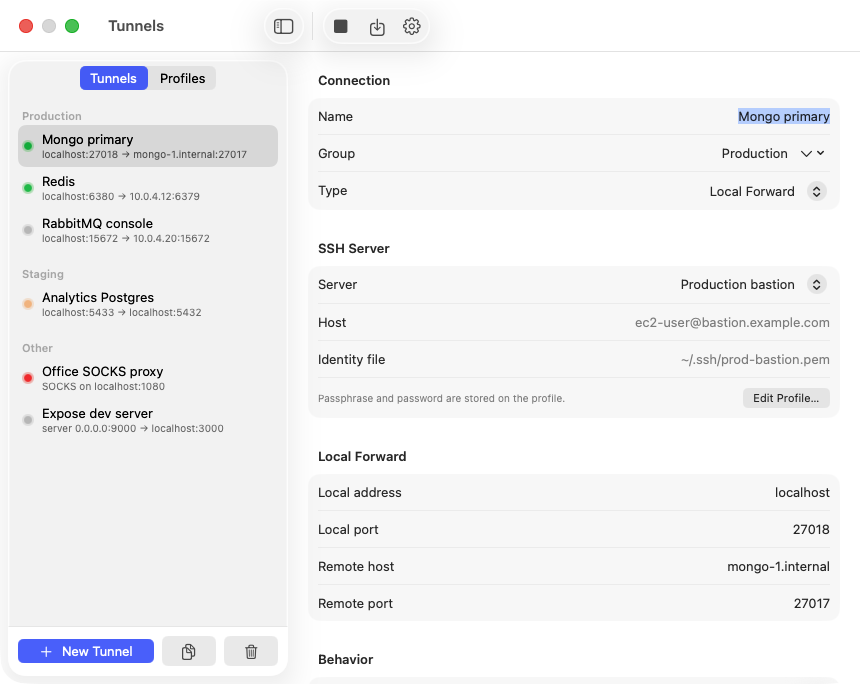
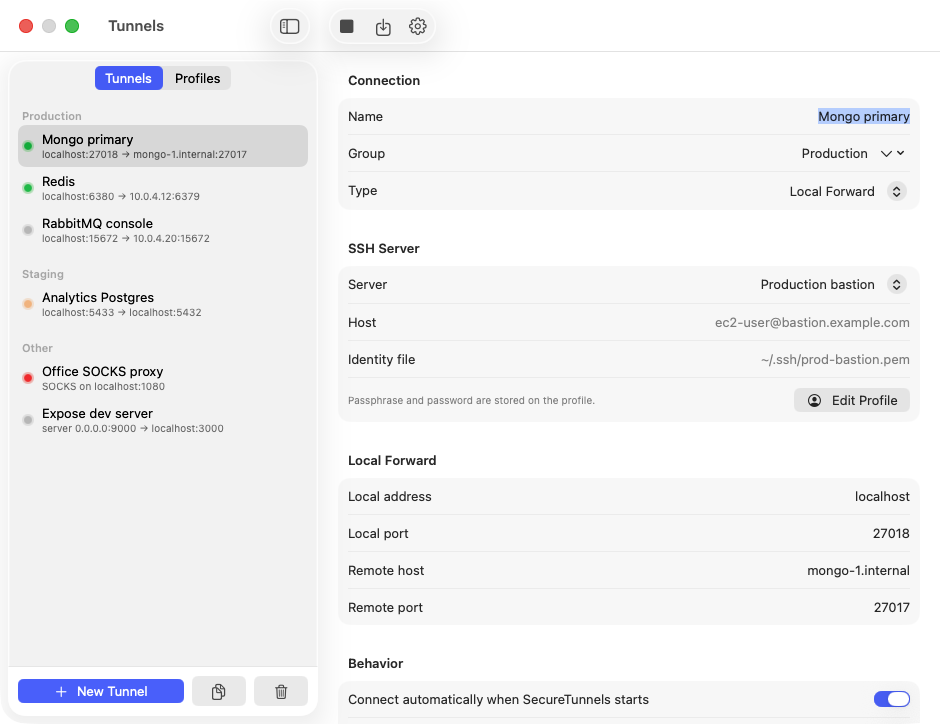
Modern buttons, wider default sidebar, and pre-flight checks for instant disconnects
Every action is a bordered or prominent button with an icon and tooltip. The sidebar opens by default
at a width that fits its action bar. Before ssh starts the manager checks the identity file exists, is
readable (which triggers the macOS folder-access prompt) and has 0600-style permissions, and clears a
quarantine flag left on the askpass helper. ssh_askpass and key permission errors map to plain advice.

diff --git a/Sources/SecureTunnels/App/TunnelManager.swift b/Sources/SecureTunnels/App/TunnelManager.swift
@@ -61,6 +61,7 @@ final class TunnelManager {
   @ObservationIgnored private var processes: [UUID: Process] = [:]
   @ObservationIgnored private var launching: Set<UUID> = []
   @ObservationIgnored private var stderrBuffers: [UUID: String] = [:]
+  @ObservationIgnored private var stdoutBuffers: [UUID: String] = [:]
   @ObservationIgnored private var wantsRunning: Set<UUID> = []
   @ObservationIgnored private var attempts: [UUID: Int] = [:]
   @ObservationIgnored private var reconnectTasks: [UUID: Task<Void, Never>] = [:]
@@ -144,7 +145,9 @@ final class TunnelManager {
   private func observeNetwork() {
     let monitor = NWPathMonitor()
     monitor.pathUpdateHandler = { path in
-      let satisfied = path.status == .satisfied
+      // requiresConnection (on-demand VPN, dial-up style links) still allows connecting, so only a hard
+      // "unsatisfied" counts as offline.
+      let satisfied = path.status != .unsatisfied
       Task { @MainActor in self.handleNetworkChange(satisfied: satisfied) }
     }
     monitor.start(queue: DispatchQueue(label: "SecureTunnels.network"))
@@ -481,6 +484,7 @@ final class TunnelManager {
 
     let listensLocally = tunnel.listensLocally
     let port = tunnel.bindPort
+    let identity = resolved(tunnel).expandedIdentityFile
     Task { @MainActor in
       let usage = listensLocally ? await Task.detached { PortProbe.listener(on: port) }.value : nil
       launching.remove(id)
@@ -491,8 +495,44 @@ final class TunnelManager {
         scheduleRetryOrFail(id, message: message)
         return
       }
+      if let problem = Self.identityProblem(path: identity) ?? Self.helperProblem() {
+        lastOutput[id] = problem + "\n"
+        scheduleRetryOrFail(id, message: problem)
+        return
+      }
       startProcess(for: id)
     }
+  }
+
+  /// Checks the key file the way ssh will: it must exist, be readable by this app (which also triggers the
+  /// macOS folder-access prompt for Desktop, Documents, Downloads and cloud drives) and not be world readable.
+  static func identityProblem(path: String) -> String? {
+    guard !path.trimmingCharacters(in: .whitespaces).isEmpty else { return nil }
+    guard FileManager.default.fileExists(atPath: path) else {
+      return "The identity file does not exist: \(path)"
+    }
+    guard let handle = FileHandle(forReadingAtPath: path) else {
+      return "The identity file could not be read. Allow SecureTunnels to access its folder in System Settings > Privacy & Security > Files and Folders, or move the key to ~/.ssh."
+    }
+    try? handle.close()
+    if let attributes = try? FileManager.default.attributesOfItem(atPath: path),
+      let permissions = attributes[.posixPermissions] as? Int, permissions & 0o077 != 0 {
+      return "ssh refuses the identity file because its permissions are too open. Run: chmod 600 \"\(path)\""
+    }
+    return nil
+  }
+
+  /// ssh runs the askpass helper directly, so a quarantine flag left on it (zip download opened with right-click
+  /// instead of xattr) makes Gatekeeper kill it. Clear the flag on our own helper when possible.
+  static func helperProblem() -> String? {
+    let path = askPassURL.path
+    guard FileManager.default.isExecutableFile(atPath: path) else {
+      return "The passphrase helper is missing from the app bundle: \(path)"
+    }
+    let attribute = "com.apple.quarantine"
+    guard getxattr(path, attribute, nil, 0, 0, 0) >= 0 else { return nil }
+    if removexattr(path, attribute, 0) == 0 { return nil }
+    return "The passphrase helper is quarantined. Run: xattr -dr com.apple.quarantine \"\(Bundle.main.bundlePath)\""
   }
 
   private func startProcess(for id: UUID) {
@@ -500,6 +540,7 @@ final class TunnelManager {
     let tunnel = resolved(stored)
     let owner = secretOwner(for: stored)
     stderrBuffers[id] = ""
+    stdoutBuffers[id] = ""
 
     let payload = AskPassPayload(
       passphrase: Keychain.read(.passphrase, ownerID: owner),
@@ -572,7 +613,11 @@ final class TunnelManager {
     log?.write(Data(text.utf8))
     if isError {
       stderrBuffers[id, default: ""] += text
-    } else if text.contains(SSHCommand.connectedMarker), status[id] == .connecting {
+      return
+    }
+    // The marker can arrive split across reads, so match on the accumulated text.
+    stdoutBuffers[id] = String((stdoutBuffers[id, default: ""] + text).suffix(512))
+    if stdoutBuffers[id, default: ""].contains(SSHCommand.connectedMarker), status[id] == .connecting {
       status[id] = .connected
       attempts[id] = 0
     }

diff --git a/Sources/SecureTunnels/Views/TunnelEditorView.swift b/Sources/SecureTunnels/Views/TunnelEditorView.swift
@@ -60,8 +60,10 @@ struct TunnelEditorView: View {
               .font(.caption)
               .foregroundStyle(.secondary)
             Spacer()
-            Button("Edit Profile…") { manager.pendingProfileSelection = profile.id }
-              .controlSize(.small)
+            Button { manager.pendingProfileSelection = profile.id } label: {
+              Label("Edit Profile", systemImage: "person.crop.circle")
+            }
+            .buttonStyle(.bordered)
               .help("Open this profile to change its server settings and secrets")
           }
         } else {
@@ -70,7 +72,8 @@ struct TunnelEditorView: View {
           TextField("Username", text: $tunnel.username, prompt: Text("ec2-user"))
           HStack {
             TextField("Identity file", text: $tunnel.identityFile, prompt: Text("Leave empty to use ~/.ssh keys or the agent"))
-            Button("Choose…") { chooseIdentityFile() }
+            Button { chooseIdentityFile() } label: { Label("Choose", systemImage: "folder") }
+              .buttonStyle(.bordered)
               .help("Pick the private key file for this tunnel")
           }
           SecureField("Key passphrase", text: $passphrase, prompt: Text("Only if the key is encrypted"))
@@ -85,12 +88,14 @@ struct TunnelEditorView: View {
               .font(.caption)
               .foregroundStyle(.secondary)
             Spacer()
-            Button("Save as Profile…") {
+            Button {
               if let created = manager.createProfile(fromTunnel: tunnel.id) {
                 manager.pendingProfileSelection = created.id
               }
+            } label: {
+              Label("Save as Profile", systemImage: "person.badge.plus")
             }
-            .controlSize(.small)
+            .buttonStyle(.bordered)
             .disabled(tunnel.host.isEmpty)
             .help("Move these server settings and secrets into a reusable profile")
           }
@@ -162,10 +167,13 @@ struct TunnelEditorView: View {
                 .font(.caption)
                 .foregroundStyle(.secondary)
               Spacer()
-              Button("Copy") {
+              Button {
                 NSPasteboard.general.clearContents()
                 NSPasteboard.general.setString(output, forType: .string)
+              } label: {
+                Label("Copy", systemImage: "doc.on.doc")
               }
+              .buttonStyle(.bordered)
               .controlSize(.small)
               .help("Copy the ssh output to the clipboard")
             }
@@ -187,13 +195,21 @@ struct TunnelEditorView: View {
             .multilineTextAlignment(.trailing)
             .foregroundStyle(.secondary)
         }
-        HStack {
-          Button(status.isActive ? "Disconnect" : "Connect") { manager.toggle(tunnel.id) }
-            .help(status.isActive ? "Close this tunnel" : "Open this tunnel")
-          Button("Show Log") { showLog() }
+        HStack(spacing: 10) {
+          Button { manager.toggle(tunnel.id) } label: {
+            Label(status.isActive ? "Disconnect" : "Connect", systemImage: status.isActive ? "stop.fill" : "play.fill")
+              .frame(minWidth: 96)
+          }
+          .buttonStyle(.borderedProminent)
+          .tint(status.isActive ? .red : .accentColor)
+          .help(status.isActive ? "Close this tunnel" : "Open this tunnel")
+          Button { showLog() } label: { Label("Show Log", systemImage: "doc.text.magnifyingglass") }
+            .buttonStyle(.bordered)
             .disabled(!FileManager.default.fileExists(atPath: AppPaths.logFile(for: tunnel.id).path))
             .help("Open the full ssh log for this tunnel")
+          Spacer()
         }
+        .padding(.vertical, 2)
       }
     }
     .formStyle(.grouped)

diff --git a/Sources/SecureTunnels/Views/TunnelsWindow.swift b/Sources/SecureTunnels/Views/TunnelsWindow.swift
@@ -10,6 +10,7 @@ enum SidebarMode: String, CaseIterable, Identifiable {
 struct TunnelsWindow: View {
   @Environment(TunnelManager.self) private var manager
   @Environment(\.openWindow) private var openWindow
+  @State private var columnVisibility: NavigationSplitViewVisibility = .all
   @State private var mode: SidebarMode = .tunnels
   @State private var selection: UUID?
   @State private var profileSelection: UUID?
@@ -21,7 +22,7 @@ struct TunnelsWindow: View {
   }
 
   var body: some View {
-    NavigationSplitView {
+    NavigationSplitView(columnVisibility: $columnVisibility) {
       sidebar
     } detail: {
       detail
@@ -63,7 +64,7 @@ struct TunnelsWindow: View {
     .onAppear(perform: consumePendingSelection)
     .onChange(of: manager.pendingSelection) { consumePendingSelection() }
     .onChange(of: manager.pendingProfileSelection) { consumePendingSelection() }
-    .frame(minWidth: 800, minHeight: 560)
+    .frame(minWidth: 880, minHeight: 600)
   }
 
   /// The popover and the editor ask for a specific tunnel or profile through the manager.
@@ -94,7 +95,7 @@ struct TunnelsWindow: View {
       case .profiles: profileList
       }
     }
-    .navigationSplitViewColumnWidth(min: 240, ideal: 280, max: 380)
+    .navigationSplitViewColumnWidth(min: 290, ideal: 310, max: 420)
     .safeAreaInset(edge: .bottom, spacing: 0) { bottomBar }
     .confirmationDialog(deleteTitle, isPresented: $confirmDelete, titleVisibility: .visible) {
       Button("Remove", role: .destructive, action: deleteSelected)
@@ -256,7 +257,10 @@ struct TunnelsWindow: View {
             : "Select a tunnel to edit it.")
         } actions: {
           if manager.tunnels.isEmpty && SecurePipesImporter.isAvailable() {
-            Button("Import from Secure Pipes") { importFromSecurePipes() }
+            Button { importFromSecurePipes() } label: {
+              Label("Import from Secure Pipes", systemImage: "square.and.arrow.down")
+            }
+            .buttonStyle(.borderedProminent)
           }
         }
       }

diff --git a/Sources/SecureTunnels/Views/MenuBarView.swift b/Sources/SecureTunnels/Views/MenuBarView.swift
@@ -62,8 +62,10 @@ struct MenuBarView: View {
         .font(.caption)
         .foregroundStyle(.secondary)
         .multilineTextAlignment(.center)
-      Button("Manage Tunnels…") { open(WindowID.tunnels) }
+      Button { open(WindowID.tunnels) } label: { Label("Manage Tunnels", systemImage: "slider.horizontal.3") }
+        .buttonStyle(.borderedProminent)
         .controlSize(.small)
+        .help("Add your first tunnel")
     }
     .padding(.horizontal, 16)
     .padding(.vertical, 20)
@@ -114,17 +116,21 @@ private struct GroupHeader: View {
       Spacer()
       if hovering {
         if !allActive {
-          Button { manager.connectAll(inGroup: group) } label: { Image(systemName: "play.fill") }
-            .help("Connect all in \(group.isEmpty ? "Other" : group)")
+          Button { manager.connectAll(inGroup: group) } label: {
+            Label("All", systemImage: "play.fill").font(.caption2)
+          }
+          .help("Connect all in \(group.isEmpty ? "Other" : group)")
         }
         if anyActive {
-          Button { manager.disconnectAll(inGroup: group) } label: { Image(systemName: "stop.fill") }
-            .help("Disconnect all in \(group.isEmpty ? "Other" : group)")
+          Button { manager.disconnectAll(inGroup: group) } label: {
+            Label("All", systemImage: "stop.fill").font(.caption2)
+          }
+          .help("Disconnect all in \(group.isEmpty ? "Other" : group)")
         }
       }
     }
-    .buttonStyle(.borderless)
-    .controlSize(.small)
+    .buttonStyle(.bordered)
+    .controlSize(.mini)
     .padding(.horizontal, 8)
     .padding(.top, 8)
     .padding(.bottom, 2)

diff --git a/Sources/SecureTunnels/Views/ProfileEditorView.swift b/Sources/SecureTunnels/Views/ProfileEditorView.swift
@@ -26,7 +26,8 @@ struct ProfileEditorView: View {
         TextField("Username", text: $profile.username, prompt: Text("ec2-user"))
         HStack {
           TextField("Identity file", text: $profile.identityFile, prompt: Text("Leave empty to use ~/.ssh keys or the agent"))
-          Button("Choose…") { chooseIdentityFile() }
+          Button { chooseIdentityFile() } label: { Label("Choose", systemImage: "folder") }
+            .buttonStyle(.bordered)
             .help("Pick the private key file for this profile")
         }
         SecureField("Key passphrase", text: $passphrase, prompt: Text("Only if the key is encrypted"))
@@ -52,8 +53,11 @@ struct ProfileEditorView: View {
             Text(tunnel.forwardDescription)
               .font(.caption)
               .foregroundStyle(.secondary)
-            Button("Open") { manager.pendingSelection = tunnel.id }
-              .controlSize(.small)
+            Button { manager.pendingSelection = tunnel.id } label: {
+              Label("Open", systemImage: "arrow.up.right.square")
+            }
+            .buttonStyle(.bordered)
+            .controlSize(.small)
               .help("Edit \(tunnel.name)")
           }
         }

diff --git a/Sources/SecureTunnelsCore/SSHCommand.swift b/Sources/SecureTunnelsCore/SSHCommand.swift
@@ -61,6 +61,15 @@ public enum SSHCommand {
     let last = lines.last ?? ""
     let lowered = lines.joined(separator: "\n").lowercased()
 
+    if lowered.contains("ssh_askpass") {
+      return "The passphrase helper could not run. If the app came from a zip, run: xattr -dr com.apple.quarantine /Applications/SecureTunnels.app"
+    }
+    if lowered.contains("unprotected private key file") || lowered.contains("permissions") && lowered.contains("too open") {
+      return "The identity file's permissions are too open. Run: chmod 600 <key file>"
+    }
+    if lowered.contains("no such identity") || lowered.contains("identity file") && lowered.contains("not accessible") {
+      return "The identity file could not be read. Check the path and that SecureTunnels may access that folder."
+    }
     if lowered.contains("permission denied") || lowered.contains("incorrect passphrase") || lowered.contains("no stored secret") {
       return "Authentication failed. Check the username, key file and passphrase."
     }

diff --git a/Tests/SecureTunnelsCoreTests/SSHCommandTests.swift b/Tests/SecureTunnelsCoreTests/SSHCommandTests.swift
@@ -79,6 +79,8 @@ final class SSHCommandTests: XCTestCase {
       "Local port 8082 is already in use."
     )
     XCTAssertEqual(SSHCommand.friendlyError(from: "", exitStatus: 255), "ssh exited with status 255.")
+    XCTAssertTrue(SSHCommand.friendlyError(from: "ssh_askpass: exec(/Applications/SecureTunnels.app/Contents/MacOS/SecureTunnelsAskPass): Operation not permitted\nPermission denied (publickey).", exitStatus: 255).contains("xattr"))
+    XCTAssertTrue(SSHCommand.friendlyError(from: "@ WARNING: UNPROTECTED PRIVATE KEY FILE! @\nPermissions 0644 for '/Users/me/key.pem' are too open.\nPermission denied (publickey).", exitStatus: 255).contains("chmod 600"))
     XCTAssertEqual(SSHCommand.friendlyError(from: "ssh: Could not resolve hostname nope: nodename nor servname provided", exitStatus: 255), "Could not resolve the host name.")
   }
 }

diff --git a/Sources/SecureTunnels/App/SnapshotRunner.swift b/Sources/SecureTunnels/App/SnapshotRunner.swift
@@ -26,7 +26,7 @@ enum SnapshotRunner {
     let pages: [(name: String, view: AnyView, size: NSSize)] = [
       ("menubar", AnyView(MenuBarView().environment(manager).environment(settings)
         .background(Color(nsColor: .windowBackgroundColor))), NSSize(width: 320, height: 0)),
-      ("tunnels", AnyView(TunnelsWindow(initialSelection: firstTunnel).environment(manager).environment(settings)), NSSize(width: 860, height: 600)),
+      ("tunnels", AnyView(TunnelsWindow(initialSelection: firstTunnel).environment(manager).environment(settings)), NSSize(width: 940, height: 640)),
       ("settings", AnyView(SettingsView().environment(manager).environment(settings)), NSSize(width: 520, height: 0)),
     ]
 

diff --git a/Sources/SecureTunnels/Views/SettingsView.swift b/Sources/SecureTunnels/Views/SettingsView.swift
@@ -31,7 +31,10 @@ struct SettingsView: View {
             .font(.caption)
             .foregroundStyle(.secondary)
           HStack {
-            Button("Import Connections") { importFromSecurePipes() }
+            Button { importFromSecurePipes() } label: {
+              Label("Import Connections", systemImage: "square.and.arrow.down")
+            }
+            .buttonStyle(.borderedProminent)
               .help("Read the Secure Pipes connection list and add or update tunnels")
             Text("Existing tunnels with the same Secure Pipes ID are updated, not duplicated.")
               .font(.caption)

diff --git a/Sources/SecureTunnels/App/SecureTunnelsApp.swift b/Sources/SecureTunnels/App/SecureTunnelsApp.swift
@@ -22,7 +22,7 @@ struct SecureTunnelsApp: App {
         .environment(manager)
         .environment(settings)
     }
-    .defaultSize(width: 860, height: 600)
+    .defaultSize(width: 940, height: 640)
 
     Window("SecureTunnels Settings", id: WindowID.settings) {
       SettingsView()

diff --git a/README.md b/README.md
@@ -119,6 +119,26 @@ tunnel. When the network path goes away it kills the sessions immediately, shows
 relaunches them the moment a route is back, with the backoff reset. Before sleep it does the same and
 reconnects three seconds after wake.
 
+## Troubleshooting
+
+**The tunnel switches off right after switching on.** Open Manage Tunnels, select the tunnel and read "Last
+error" and the ssh output box in the Status section, or press Show Log. The usual causes:
+
+- Another process already listens on the local port. The error names it, for example "port 8080 is already in
+  use by node (pid 512)". Pick another local port or stop that process.
+- The key needs a passphrase that has not been entered, or the key is not the right one for the server. ssh
+  reports "Permission denied (publickey)". Enter the passphrase in the tunnel or profile, or add the key.
+- The key file's permissions are too open. ssh ignores keys that other users can read: `chmod 600 key.pem`.
+- The key lives in Desktop, Documents, Downloads or a cloud drive folder and macOS has not let SecureTunnels
+  read it. Allow it under System Settings > Privacy & Security > Files and Folders, or move the key to `~/.ssh`.
+- The app came from a zip and only the app itself was un-quarantined (right-click, Open). ssh runs the bundled
+  passphrase helper directly and Gatekeeper kills it. The app clears the flag on the helper by itself when it
+  can; otherwise run `xattr -dr com.apple.quarantine /Applications/SecureTunnels.app`.
+- No route to the network. The popover header says "No network" and the tunnel waits instead of failing.
+
+**Launch at login is off after a rebuild.** macOS ties the login item to the app at `/Applications`. Turn the
+toggle off and on again in Settings after replacing the app.
+
 ## Layout
 
 - `Sources/SecureTunnelsCore`: tunnel and profile model, JSON storage, keychain, ssh argument builder, port

diff --git a/docs/project-learnings.md b/docs/project-learnings.md
@@ -58,3 +58,14 @@
   SIGHUP calls `NSApp.terminate`, and `sessions.json` records every ssh pid so `SessionRegistry.killStaleSessions`
   can clean up after a crash. It only kills a pid whose command line is `/usr/bin/ssh -N ...` with the
   SecureTunnels marker, because pids get reused.
+
+## Instant disconnects on another Mac (2026-09-16)
+
+- A co-founder's install closed every tunnel right away. Nothing in the process code was machine specific, so
+  the launch path now pre-checks the things that differ between Macs and reports them as the error: local port
+  already taken, identity file missing or unreadable (opening it also triggers the macOS folder-access prompt
+  for Desktop, Documents, Downloads and cloud drives), key permissions looser than 0600, and a quarantined
+  askpass helper. The helper is executed by ssh, not by LaunchServices, so a right-click Open on the app does
+  not clear its quarantine flag; the app removes the flag on its own helper with `removexattr` when it can.
+- `NWPathMonitor` reports `.requiresConnection` for on-demand VPN links. Treat only `.unsatisfied` as offline.
+- The connected marker can arrive split across two stdout reads; match on an accumulated buffer.
